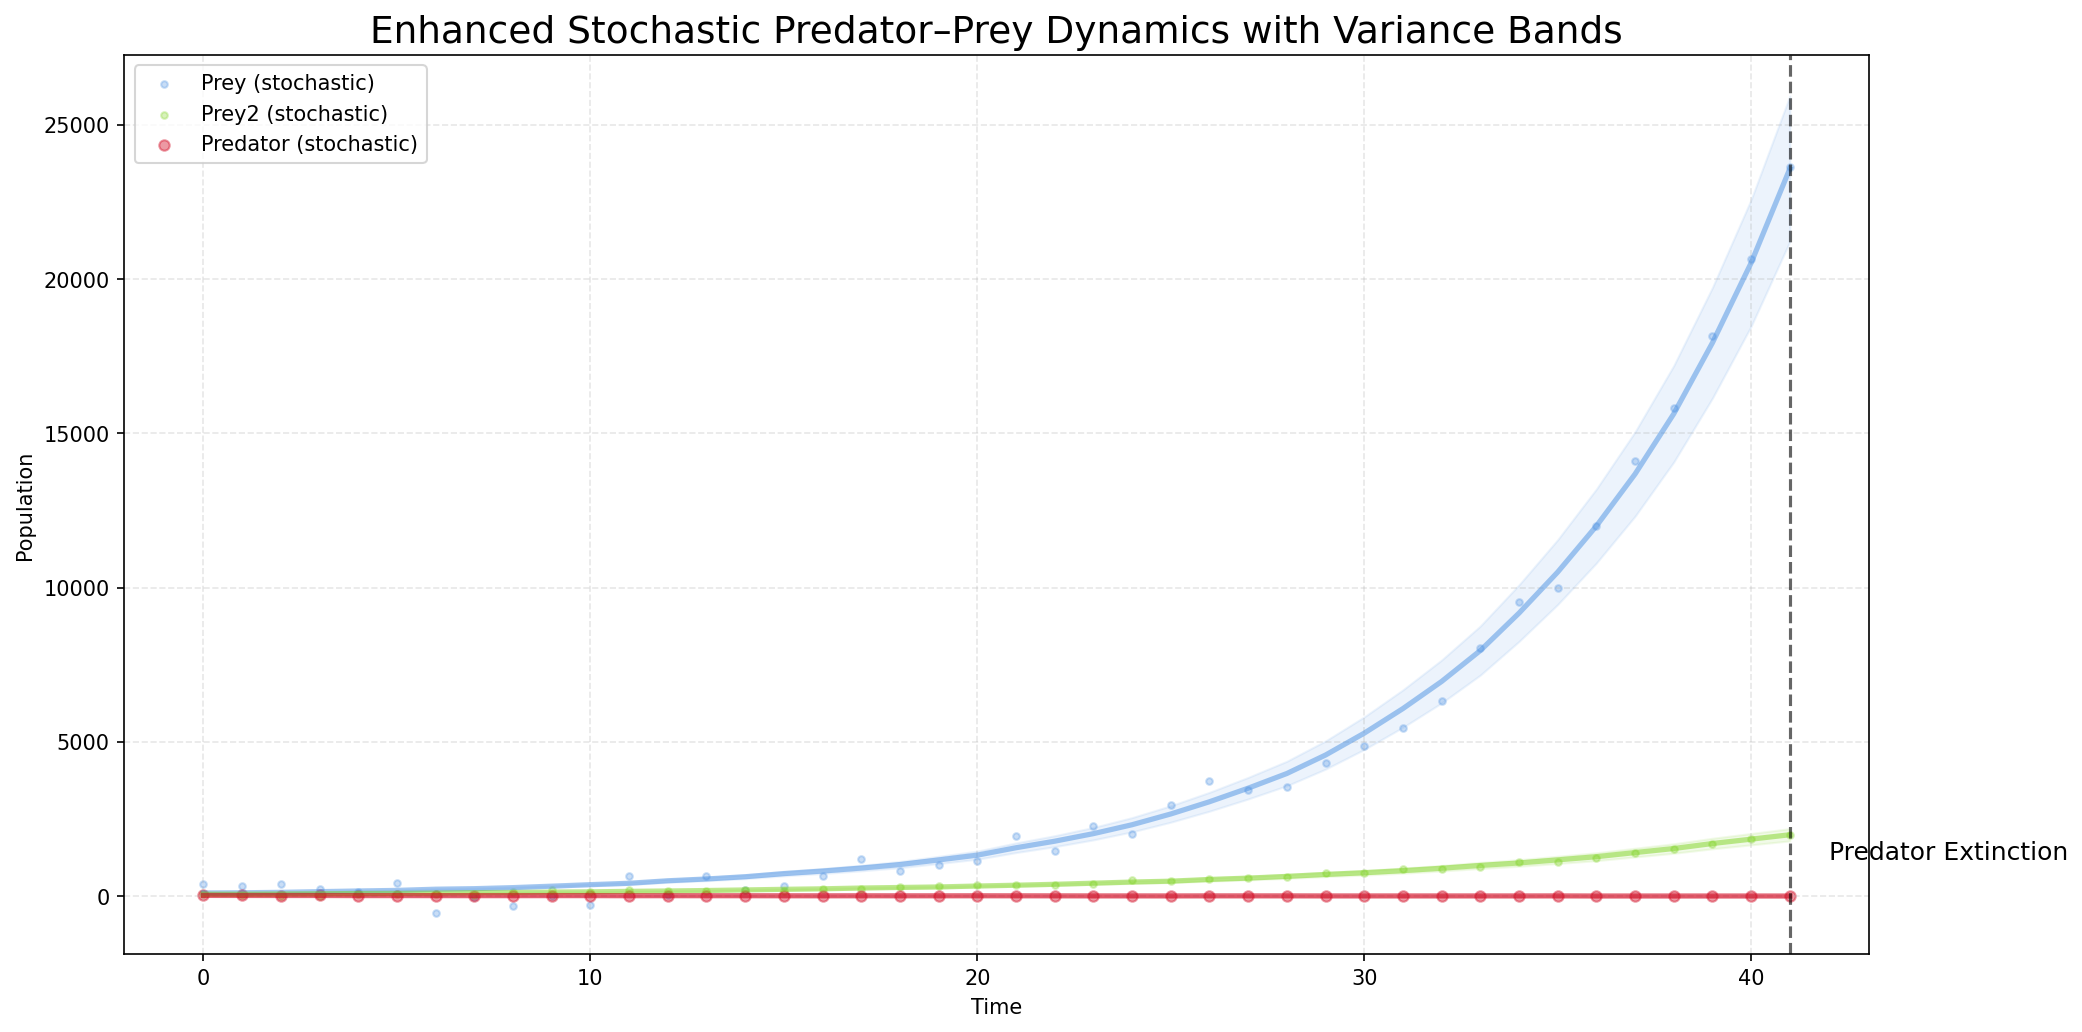
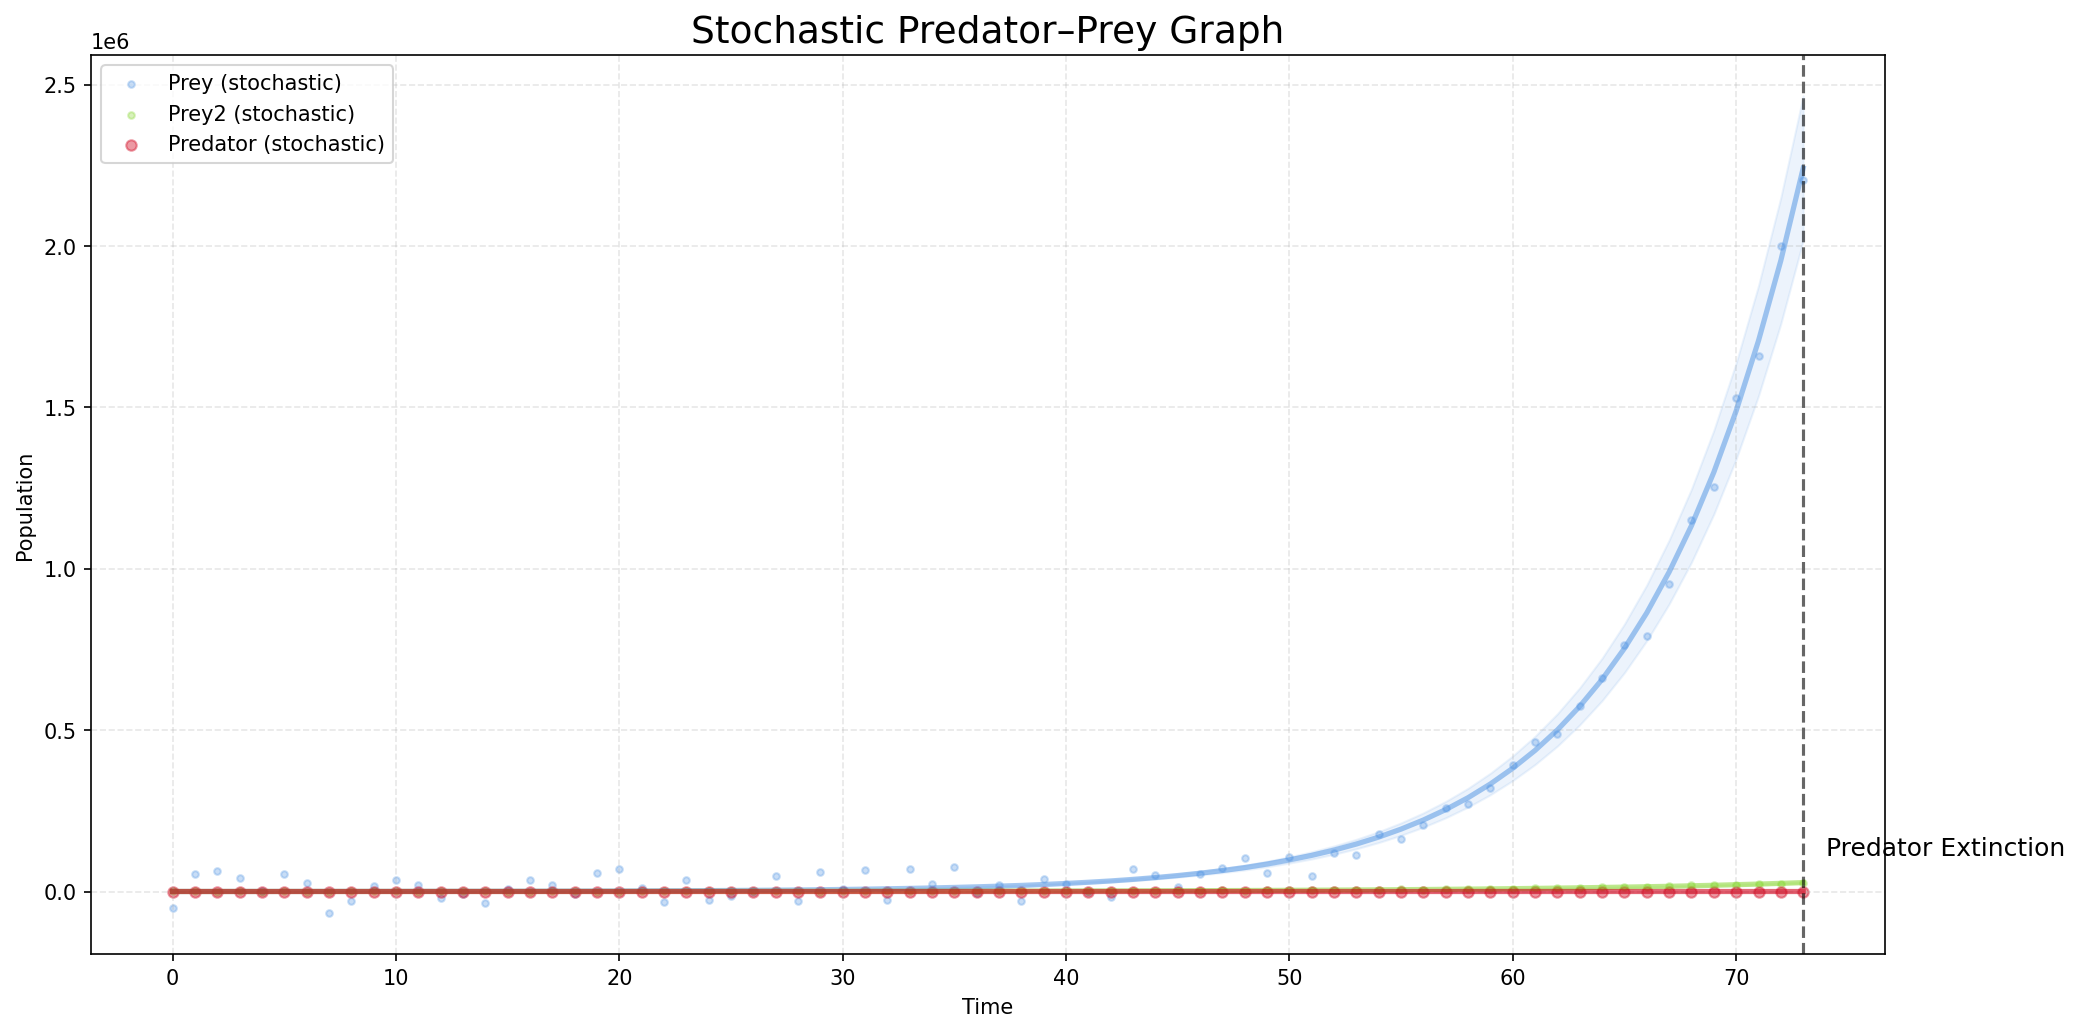
Stochastic again

diff --git a/main.py b/main.py
@@ -133,7 +133,7 @@ if predator_extinct_step is not None:
              "Predator Extinction", fontsize=12, color="black")
 
 # formatting
-plt.title("Enhanced Stochastic Predator–Prey Dynamics with Variance Bands", fontsize=18)
+plt.title("Stochastic Predator–Prey Graph", fontsize=18)
 plt.xlabel("Time")
 plt.ylabel("Population")
 plt.legend()
